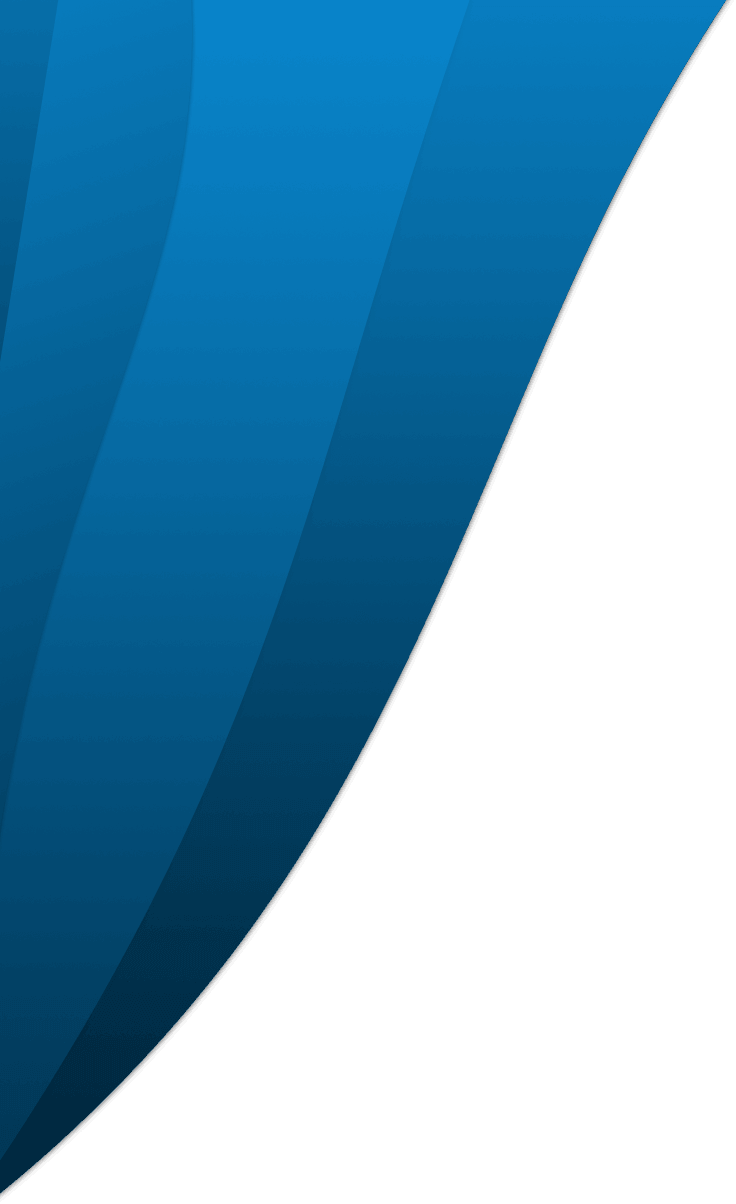
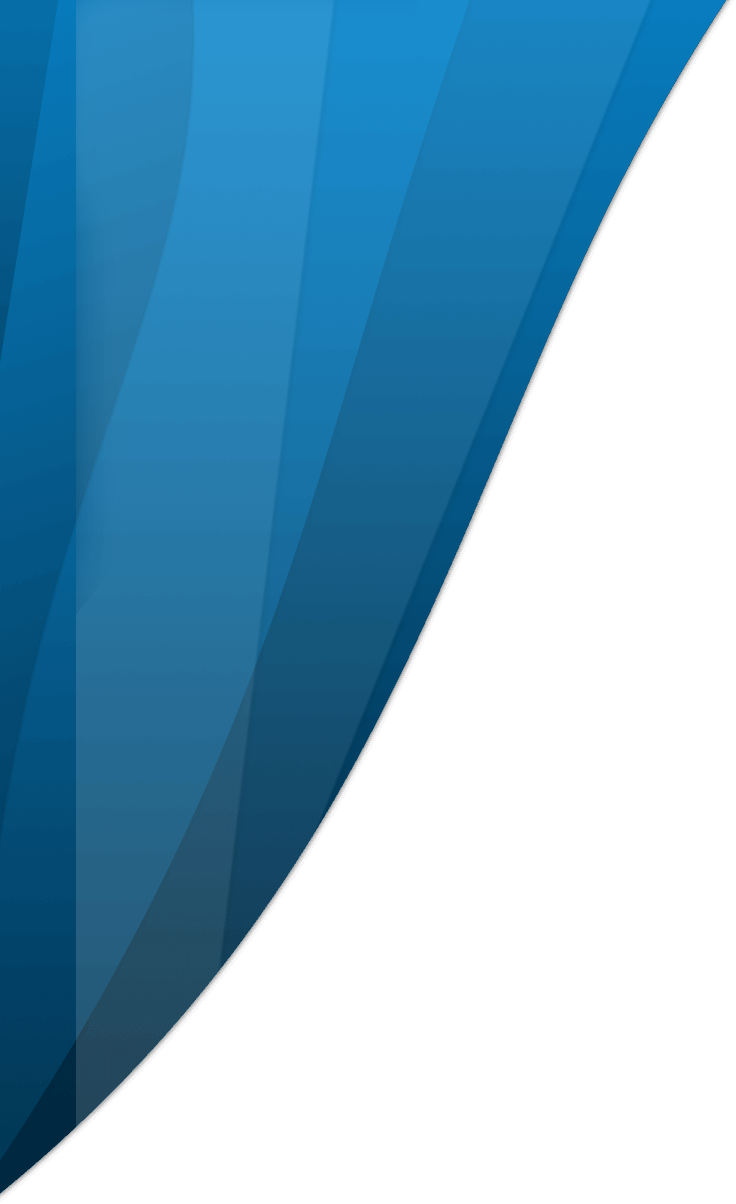
Improve RWD v3.3

Changed region(s): [[0.0938, 0.0, 0.4688, 0.9527]]

diff --git a/templates/sections/_menu.html b/templates/sections/_menu.html
@@ -7,14 +7,14 @@
         </ul>
         <section class="top-bar-section"> <!-- Right Nav Section -->
             <ul class="right">
-                <li><a href="#section-1">Misja</a></li>
-                <li><a href="#section-11">Aktualności</a></li>
-                <li><a href="#section-4">O Fundacji</a></li>
-                <li><a href="#section-5">Rada i Zarząd</a></li>
-                <li><a href="#section-5">Statut</a></li>
-                <li><a href="#section-5">Sprawozdania finansowe</a></li>
-                <li><a href="#section-5">Partnerzy fundacji</a></li>
-                <li><a href="#section-5">Kontakt</a></li>
+                <li><a href="#section-2">Misja</a></li>
+                <li><a href="#section-4">Aktualności</a></li>
+                <li><a href="#section-5">O Fundacji</a></li>
+                <li><a href="#section-6">Rada i Zarząd</a></li>
+                <li><a href="#section-9">Statut</a></li>
+                <li><a href="#section-10">Sprawozdania finansowe</a></li>
+                <li><a href="#section-11">Partnerzy fundacji</a></li>
+                <li><a href="#section-14">Kontakt</a></li>
             </ul>
         </section>
     </nav>

diff --git a/scss/sections/mod__home.scss b/scss/sections/mod__home.scss
@@ -27,6 +27,9 @@ html {
   background:$background-color;
   @include putSectionImage($background-color,"1_motyw.png","","","", top left,"","","");
   background-size:           60%;
+  @media #{$xlarge-only} {
+    background-size:           40% !important;
+  }
 }
 
 // Strona głowna
@@ -55,7 +58,7 @@ html {
   .fundacja__logo {
     .logo {
       @media #{$medium-up}  { width:180px; }
-      @media #{$large-up}   { width:231px; }
+      @media #{$large-up}   { width:231px; height:126px; max-width:231px !important; }
       position:             absolute;
       top:                  1rem;
       right:                1rem;
@@ -74,6 +77,12 @@ html {
       @include              putBorder(top, $blue4-color, 2px);
       @include              putBorder(bottom, $blue4-color, 2px);
     }
+    @media #{$xlarge-only} {
+      position: absolute;
+      left: -96px;
+      top: -100px;
+    }
+
   }
 
   // ---------------------------------------------------------------

diff --git a/scss/sections/mod__kontakt.scss b/scss/sections/mod__kontakt.scss
@@ -25,8 +25,12 @@
   //---------------------------------------------------------------
   // Media Queries
   //---------------------------------------------------------------
+
   @media #{$medium-up} {
+    @include putSectionImage(transparent,"11_motywl.png","11_motyws.png", "","",bottom left,bottom right,bottom right,bottom right);
+    background-repeat: no-repeat, repeat-x;
   }
+
 
   //---------------------------------------------------------------
   // General look
@@ -35,11 +39,14 @@
   background:$background-color;
 
   // Section margines
-//  .row {
-//    @include setSectionMobile(0 0 5em 0);
-//    @include setSectionTablet(0 0 5em 0);
-//    @include setSectionPc(0 0 5em 0);
-//  }
+  > .row {
+    @include setSectionMobile(0 0 5em 0);
+    @include setSectionTablet(0 0 5em 0);
+    @include setSectionPc(0 0 5em 0);
+  }
+  > .row:first-of-type {
+    padding-bottom:0px;
+  }
 
 
   // ---------------------------------------------------------------

diff --git a/scss/sections/mod___INCLUDES.scss b/scss/sections/mod___INCLUDES.scss
@@ -69,10 +69,10 @@ $allowMarginsPc       :   $allowMarginsMobile;
 
 // Live defaults
 $dir_GFX              :   "http://beta.kozminski.edu.pl/fundacja/gfx/";
-//$dir_FONTS            :   "http://beta.kozminski.edu.pl/fundacja/fonts/";
+$dir_FONTS            :   "http://beta.kozminski.edu.pl/fundacja/fonts/";
 
 // Local defaults
-$dir_FONTS            :   "/fonts/";
+//$dir_FONTS            :   "/fonts/";
 
 /*------------------------------------*\
     FONTS
@@ -457,9 +457,9 @@ This mixin put border in the position.
     @if $position == "right" { right:$margin-medium; }
     @else if $position == "left"{ left:$margin-medium; }
   }
-  @media #{$large-only} {
-    height:7em;
-    bottom:-4rem;
+  @media #{$large-up} {
+    height:180px;
+    bottom:-7rem;
 
     @if $position == "right" { right:$margin-large; }
     @else if $position == "left"{ left:$margin-large; }

diff --git a/templates/_footer.html b/templates/_footer.html
@@ -1,4 +1,18 @@
 
+    <!-- Sekcja 15. Stopka -->
+    <section id="section-15" class="rowWrapper rowSlide section__footer">
+        <div class="row">
+            <div class="large-12 columns">
+                <header class="section__header text-center">
+                    <a id="logo__footer" class="hide-for-small-only" href="">
+                        <img src="gfx/11_logo.png" alt="" title=""/>
+                    </a>
+                    <p>Fundacja Koźmińskich // copyright 2014</p>
+                </header>
+            </div>
+        </div>
+    </section>
+
     </div><!--/eo @globalContainer -->
 
 <script>

diff --git a/scss/sections/mod__rada-i-zarzad.scss b/scss/sections/mod__rada-i-zarzad.scss
@@ -46,6 +46,12 @@
     right: 1% !important;
   }
 
+  img.right-join {
+    position: absolute;
+    right: -20px;
+    top: 424px;
+  }
+
   // ---------------------------------------------------------------
   // SECTION's header
   //---------------------------------------------------------------
@@ -58,6 +64,7 @@
   // SECTION's main content
   //---------------------------------------------------------------
   .section__content {
+
     &:first-of-type {
       margin-bottom:4em;
     }

diff --git a/scss/sections/mod__statut.scss b/scss/sections/mod__statut.scss
@@ -96,19 +96,23 @@
       right:  -15% !important; top: 0;
     }
   }
-}
 
 
-
-@media #{$medium-only} {
-  .rsArrow {
-    visibility: hidden;
+  @media #{$medium-only} {
+    .rsArrow {
+      visibility: hidden;
+    }
   }
-}
-@media #{$large-only} {
-  .rsArrow {
-    visibility: hidden;
+  @media #{$large-only} {
+    .rsArrow {
+      visibility: hidden;
+    }
   }
+
+  @media #{$large-up} {
+
+  }
+
 }
 
-@media #{$large-up} {  }
+

diff --git a/scss/_settings.scss b/scss/_settings.scss
@@ -175,10 +175,10 @@ $small-range-label:  "SMARTPHONES [0 x 720px]";
 $medium-range: (720px, 1010px);
 $medium-range-label: "TABLETS [720 x 1010px]";
 
-$large-range: (1011px, 1600px);
+$large-range: (1011px, 1498px);
 $large-range-label: "PC Screens [1010px + 1600px ]";
 
-$xlarge-range: (1600px, 120em);
+$xlarge-range: (1500px, 120em);
 $xlarge-range-label: "FULL HD [1600px ++ ]";
 //$xxlarge-range: (120.063em, 99999999em);
 

diff --git a/templates/sections/_radaizarzad.html b/templates/sections/_radaizarzad.html
@@ -5,9 +5,9 @@
 <header class="section__header text-center">
     <h2 class="section__title">Rada i Zarząd Fundacji</h2>
 </header>
+<img src="gfx/right.png" alt="" class="right-join" />
 <div class="section__content small-only-text-center">
 <div class="row row__zarzad">
-
     <div class="columns medium-3">
         <h3 class="extra__label">Prezes <br/>Fundacji</h3>
     </div>

diff --git a/templates/sections/_partnerzy.html b/templates/sections/_partnerzy.html
@@ -47,6 +47,6 @@
                 <a class="partner_www">www.kozminski.edui.pl</a>
             </div>
         </div>
+        <figure class="crossSectionArrow--right"><img src="gfx/9_strzalka.png" alt="" title=""/></figure>
     </div>
-    <figure class="crossSectionArrow--right"><img src="gfx/9_strzalka.png" alt="" title=""/></figure>
 </section>

diff --git a/scss/sections/mod__patroni.scss b/scss/sections/mod__patroni.scss
@@ -60,6 +60,11 @@
     }
   }
 
+  .crossSectionArrow--right,
+  .crossSectionArrow--left {
+    height:130px !important;
+    bottom:-4rem !important;
+  }
   // ---------------------------------------------------------------
   // SECTION's header
   //---------------------------------------------------------------

diff --git a/scss/sections/mod__footer.scss b/scss/sections/mod__footer.scss
@@ -20,8 +20,12 @@
 
 .section__footer {
 
-  .row {
-//    padding:1em 0 1em 0;
+  @media #{$medium-up} {
+    border-top:none !important;
+  }
+
+  > .row {
+    padding:1.5em 0 1em 0;
   }
 
   // COLOURS SCHEME ------------------------------------------------------
